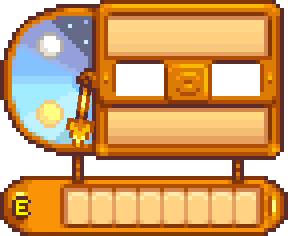
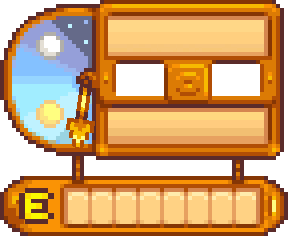
energy DONE

Changed region(s): [[0.0312, 0.7712, 0.1875, 0.9492]]

diff --git a/core/src/main/java/io/Ap/StardewValley/Screen/GameScreen.java b/core/src/main/java/io/Ap/StardewValley/Screen/GameScreen.java
@@ -13,6 +13,7 @@ import com.badlogic.gdx.utils.viewport.ScreenViewport;
 import io.Ap.StardewValley.Controller.GameScreenController;
 import io.Ap.StardewValley.Model.App;
 import io.Ap.StardewValley.Model.Map.Coordinate;
+import io.Ap.StardewValley.Model.Player.Player;
 import io.Ap.StardewValley.Model.Time.DateAndTime;
 import io.Ap.StardewValley.Model.Time.Weather;
 import io.Ap.StardewValley.Screen.CookingScreen.CookingStage;
@@ -210,13 +211,19 @@ public class GameScreen implements Screen, InputProcessor {
         Skin skin = StardewValley.getSkin();
 
         Coordinate cor = App.getGame().getCurrentPlayer().getCoordinate();
+        Player player = App.getGame().getCurrentPlayer();
+        DateAndTime time = App.getGame().getCurrentTime();
+
         controllerTable.clear();
         controllerTable.setFillParent(true);
         controllerTable.top().left();
         controllerTable.add(new Label("Player: (" + cor.getX() + ", " + cor.getY() + ")    " ,skin));
-        //controllerTable.add(new Label("LibGdx: (" + App.getGame().getCurrentPlayer().getXLibGdx() + ", " + App.getGame().getCurrentPlayer().getYLibGdx() + ")" ,skin));
-        controllerTable.add(new Label("Zoom: " + camera.zoom + "    ",skin));
-        controllerTable.add(new Label("Time: " + App.getGame().getCurrentTime().getFormattedTime() + "    ", skin));
+        //controllerTable.add(new Label("LibGdx: (" + player).getXLibGdx() + ", " + App.getGame().getCurrentPlayer().getYLibGdx() + ")" ,skin));
+        //controllerTable.add(new Label("Zoom: " + camera.zoom + "    ",skin));
+        controllerTable.add(new Label("Energy: " + player.getEnergy() + "    ", skin));
+        controllerTable.add(new Label("Max Energy: " + player.getMaxEnergy() + "    ", skin));
+        controllerTable.add(new Label("Season: " + time.getSeason() + "    ", skin));
+        controllerTable.add(new Label("Weather: " + time.getWeather() + "    ", skin));
     }
 
     public void updateCamera() {
@@ -429,47 +436,30 @@ public class GameScreen implements Screen, InputProcessor {
         int hour = time.getHour();
         int minute = time.getMinute();
 
-        float alpha = 0f;
-        boolean isRainy = time.getWeather().equals(Weather.Rain);
+        float alpha;
+        boolean isRainy = time.getWeather().equals(Weather.Rain) || time.getWeather().equals(Weather.Storm);
 
         if (isRainy) {
-            if (hour >= 6 && hour < 19) {
-                int minutesSinceStart = (hour - 6) * 60 + minute;
-                int totalMinutes = (19 - 6) * 60;
-
-                float progress = Math.min(1f, minutesSinceStart / (float) totalMinutes);
-                float maxAlpha = 0.3f;
-
-                alpha = progress * maxAlpha;
-            }
-            else if (hour >= 19) {
-                alpha = getAlpha(hour, minute);
-            }
-            else {
-                alpha = 0.7f;
-            }
+            alpha = getAlpha(hour, minute, 9);
         } else {
-            if (hour >= 19) {
-                alpha = getAlpha(hour, minute);
-            }
+            alpha = getAlpha(hour, minute, 18);
         }
 
         nightOverlay.getColor().a = alpha;
         nightOverlay.setColor(nightOverlay.getColor());
     }
 
-    private float getAlpha(int hour, int minute) {
-        float alpha;
-        int minutesSinceStart = (hour - 19) * 60 + minute;
-        int totalNightMinutes = (24 - 19) * 60;
+    private float getAlpha(int hour, int minute, int start) {
+        int minutesSinceStart = (hour - start) * 60 + minute;
 
+        if (minutesSinceStart < 0) return 0f;
+
+        int totalNightMinutes = (24 - start) * 60;
         float progress = Math.min(1f, minutesSinceStart / (float) totalNightMinutes);
         float maxAlpha = 0.7f;
 
-        alpha = progress * maxAlpha;
-        return alpha;
+        return progress * maxAlpha;
     }
-
 
     @Override
     public void resize(int width, int height) {

diff --git a/core/src/main/java/io/Ap/StardewValley/Screen/TimeScreen/TimeBar.java b/core/src/main/java/io/Ap/StardewValley/Screen/TimeScreen/TimeBar.java
@@ -10,6 +10,8 @@ import io.Ap.StardewValley.Model.Time.Season;
 import io.Ap.StardewValley.Model.Time.Weather;
 import io.Ap.StardewValley.StardewValley;
 
+import java.util.List;
+import java.util.ArrayList;
 import java.util.EnumMap;
 import java.util.Map;
 
@@ -17,7 +19,8 @@ import java.util.Map;
 public class TimeBar {
     private final Map<Weather, Image> weathersImage = new EnumMap<>(Weather.class);
     private final Map<Season, Image> seasonsImage = new EnumMap<>(Season.class);
-
+    private final Image green = new Image(new Texture(Gdx.files.internal("time/Green.png")));
+    private final List<Image> energyBars = new ArrayList<>();
 
     private final Group group;
 
@@ -72,13 +75,38 @@ public class TimeBar {
         currentWeather.setPosition(254, 168);
         group.addActor(currentWeather);
 
+        // energy:
+//        green.setSize(green.getWidth() * scale, green.getHeight() * scale + 1);
+//        green.setPosition(77, 9);
+//        group.addActor(green);
+
+
+        for (int i = 0; i < 8; i++) {
+            Image energy = new Image(new Texture(Gdx.files.internal("time/Green.png")));
+            energy.setSize(energy.getWidth() * scale, energy.getHeight() * scale + 1);
+            energy.setPosition(77 + i * 29, 9);
+            energyBars.add(energy);
+            group.addActor(energy);
+        }
+
         group.setSize(background.getWidth(), background.getHeight());
+
     }
 
     public void updateTime() {
         DateAndTime time = App.getGame().getCurrentTime();
         timeLabel.setText(time.getFormattedTime());
         dateLabel.setText(time.getDayOfWeek().getAbbreviation() + " " + time.getDay());
+    }
+
+    public void updateEnergy() {
+        int energy = App.getGame().getCurrentPlayer().getEnergy();
+        int maxEnergy = App.getGame().getCurrentPlayer().getMaxEnergy();
+
+        int visibleBars = Math.min(8, Math.max(0, energy * 8 / maxEnergy));
+        for (int i = 0; i < 8; i++) {
+            energyBars.get(i).setVisible(i < visibleBars);
+        }
     }
 
     public void updateSeason(Season season) {

diff --git a/core/src/main/java/io/Ap/StardewValley/Controller/GameScreenController.java b/core/src/main/java/io/Ap/StardewValley/Controller/GameScreenController.java
@@ -46,6 +46,7 @@ public class GameScreenController {
             goToNextDay();
 
         view.getTimeBar().updateTime();
+        view.getTimeBar().updateEnergy();
     }
 
     public void goToNextDay() {
@@ -119,11 +120,15 @@ public class GameScreenController {
         }
 
         if (Gdx.input.isKeyJustPressed(App.getKeyManager().getNafisehCheat())){
-            App.getGame().getCurrentPlayer().setEnergy(-1);
-//            App.getGame().getCurrentTime().addHour(14);
-//            App.getGame().getCurrentTime().setMinute(55);
-//            App.getGame().getCurrentTime().addDay(27);
-//            goToNextDay();
+            //App.getGame().getCurrentPlayer().setEnergy(-1);
+            App.getGame().getCurrentTime().addHour(14);
+            App.getGame().getCurrentTime().setMinute(55);
+            //App.getGame().getCurrentTime().addDay(27);
+            //goToNextDay();
+        }
+
+        if (Gdx.input.isKeyJustPressed(App.getKeyManager().getNafisehCheatTime())){
+            App.getGame().getCurrentTime().addHour(1);
         }
 
         //inventory:
@@ -181,6 +186,7 @@ public class GameScreenController {
         // status
         if (isMoving) {
             player.setState(StateType.Walk);
+            player.addEnergy(-1);
         } else if (isEating) {
             player.setState(StateType.Eat);
         } else {

diff --git a/core/src/main/java/io/Ap/StardewValley/Model/KeyManager.java b/core/src/main/java/io/Ap/StardewValley/Model/KeyManager.java
@@ -25,6 +25,7 @@ public class KeyManager {
 
     private int aynazCheat = Input.Keys.Z;
     private int nafisehCheat = Input.Keys.ENTER;
+    private int nafisehCheatTime = Input.Keys.RIGHT;
 
     public int getMoveUp() {
         return moveUp;
@@ -144,6 +145,14 @@ public class KeyManager {
 
     public void setNafisehCheat(int nafisehCheat) {
         this.nafisehCheat = nafisehCheat;
+    }
+
+    public int getNafisehCheatTime() {
+        return nafisehCheatTime;
+    }
+
+    public void setNafisehCheatTime(int nafisehCheatTime) {
+        this.nafisehCheatTime = nafisehCheatTime;
     }
 }
 

diff --git a/core/src/main/java/io/Ap/StardewValley/Screen/PlayerScreen/BankPlayerAnimationFrames.java b/core/src/main/java/io/Ap/StardewValley/Screen/PlayerScreen/BankPlayerAnimationFrames.java
@@ -22,7 +22,7 @@ public class BankPlayerAnimationFrames {
     public BankPlayerAnimationFrames(TextureRegion[][] sheet) {
         float frameDuration = 0.12f;
 
-        faintAnimation = new Animation<>(frameDuration + 3f, sheet[0][0], sheet[2][4], sheet[0][4], sheet[0][5]);
+        faintAnimation = new Animation<>(frameDuration + 1.88f, sheet[0][0], sheet[2][4], sheet[0][4], sheet[0][5]);
         eatAnimation = new Animation<>(frameDuration, sheet[2][2]);
 
         walkAnimations.put(DirectionType.Down,
